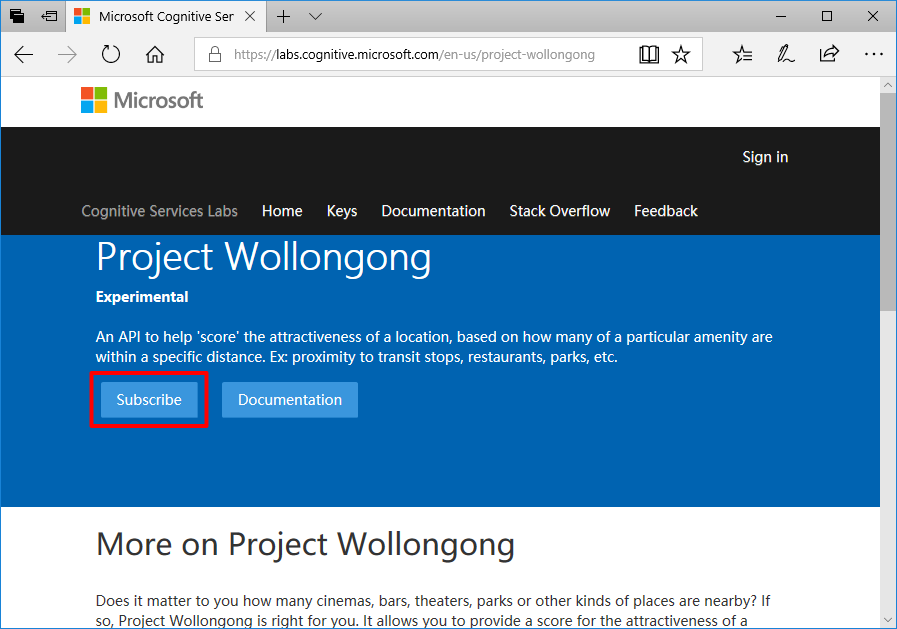
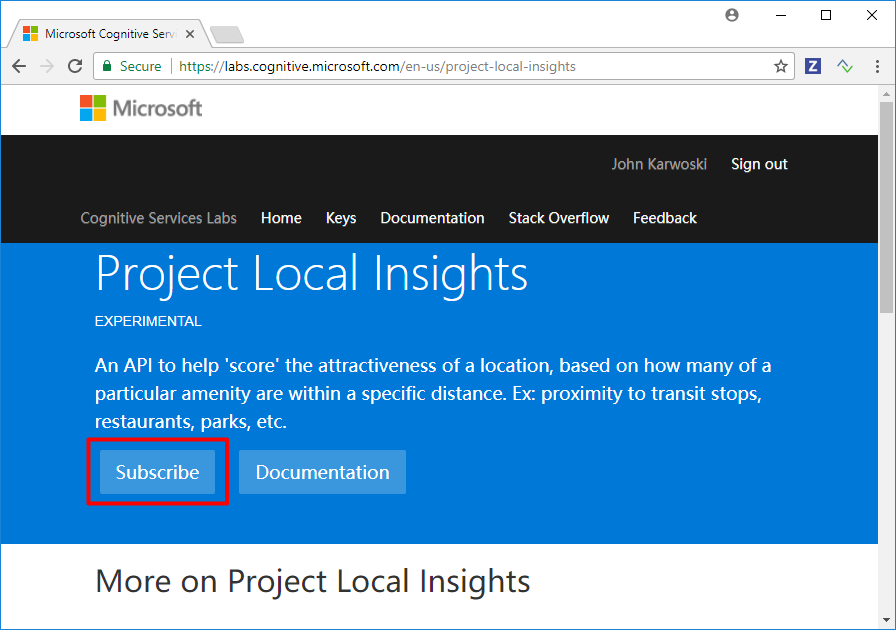
Updated WebApp HOL

diff --git a/Azure University Tour/WebAppHOL/index.html b/Azure University Tour/WebAppHOL/index.html
@@ -131,13 +131,11 @@
 
     <script type="text/javascript" src="./js/jquery-3.1.1.min.js"></script>
     <script type="text/javascript" src="./js/bootstrap.min.js"></script>
-    <!-- These are in place of pulling actual data from a server -->
     <script type="text/javascript" src="./data/data_au.js"></script>
     <script type="text/javascript" src="./data/data_dc.js"></script>
     <script type="text/javascript" src="./data/data_la.js"></script>
     <script type="text/javascript" src="./data/data_se.js"></script>
     <script type="text/javascript" src="./data/data_sf.js"></script>
-
     <script type="text/javascript" src="./js/settings.js"></script>
     <script type="text/javascript" src="./js/index.js"></script>
     <script type="text/javascript" src="https://www.bing.com/api/maps/mapcontrol?branch=experimental&callback=CreateMap" async defer></script>

diff --git a/Azure University Tour/WebAppHOL/README.md b/Azure University Tour/WebAppHOL/README.md
@@ -7,7 +7,7 @@
 
 We find ourselves now at a fascinating moment in the history of software development. For the first time ever, not only is data about our world abundant, readily available, and easy to share, but nearly unlimited processing power is just as available to anyone who needs it. Add to that mix the public availability of new, powerful artificial-intelligence (AI) algorithms that Microsoft had previously used only in-house, and suddenly developers have a mind-boggling degree of programming power, right at their fingertips. With AI, we can tap into huge amounts of data and make it work for us by giving us insights about whatever we care about. Microsoft Cognitive Services provides a rich source for AI algorithms, enabling your apps to see, hear, speak, understand, and interpret your users' needs.
 
-In this lab, you will experience the benefits of using AI first-hand. You will begin the lab by downloading a short-term vacation-rental web application called ContosoBNB. Then you will incorporate into that web application the Project Wollongong API from Cognitive Services. Project Wollongong provides a custom score for the attractiveness of a location according to a user's select preferences. After incorporating the API, the ContosoBNB application is able to render a Bing Maps image of several cities within the United States, where the project is supported. Circles appear on the rendered map to represent neighborhoods, and each circle displays a number that corresponds to the number of available properties within that neighborhood. Neighborhoods are also rated according to preference settings that the user can adjust. Finally, using the API, you will alter the neighborhood criteria (categories) displayed in the user interface (UI). This step will enable you to customize the attractiveness score of a neighborhood so that the score is determined by its proximity to amenities you prioritize (such as restaurants or parks) within the defined area.
+In this lab, you will experience the benefits of using AI first-hand. You will begin the lab by downloading a short-term vacation-rental web application called ContosoBNB. Then you will incorporate into that web application the Project Local Insights API from Cognitive Services. Project Local Insights provides a custom score for the attractiveness of a location according to a user's select preferences. After incorporating the API, the ContosoBNB application is able to render a Bing Maps image of several cities within the United States, where the project is supported. Circles appear on the rendered map to represent neighborhoods, and each circle displays a number that corresponds to the number of available properties within that neighborhood. Neighborhoods are also rated according to preference settings that the user can adjust. Finally, using the API, you will alter the neighborhood criteria (categories) displayed in the user interface (UI). This step will enable you to customize the attractiveness score of a neighborhood so that the score is determined by its proximity to amenities you prioritize (such as restaurants or parks) within the defined area.
 
 <a name="Objectives"></a>
 ### Objectives ###
@@ -16,7 +16,7 @@ In this hands-on lab, you will learn:
 
 - How to install and use Visual Studio Code
 - How to obtain an API key for Azure Cognitive Services
-- How to make calls to the Project Wollongong API
+- How to make calls to the Project Local Insights API
 - How data is returned from the API (and how to use that data)
 - How to tailor your requests to customize the data returned from the API
 
@@ -25,7 +25,7 @@ In this hands-on lab, you will learn:
 
 The following are required to complete this hands-on lab:
 
-- A key for the Project Wollongong API. If you haven't already, [subscribe to Project Wollongong](https://labs.cognitive.microsoft.com/en-us/project-wollongong).
+- A key for the Project Local Insights API. If you haven't already, [subscribe to Project Local Insights](https://labs.cognitive.microsoft.com/en-us/project-local-insights).
 - Your favorite development environment for web applications. If you don't have one, try Microsoft Visual Studio Code, with [downloads for Windows, Linux, and Mac available here](https://code.visualstudio.com/download).
 
 <a name="Resources"></a>
@@ -33,7 +33,7 @@ The following are required to complete this hands-on lab:
 
 This lab makes use of an existing dataset (released under public domain) to model real-world property listings with their associated details. The complete dataset can be found at http://insideairbnb.com/get-the-data.html. For the purposes of this lab, the data has been separated by city location and provided in JavaScript Object Notation (JSON) format to emulate how it might be provided if requested directly from a database.
 
-You will find a .ZIP file containing the resources used in this lab [here](https://github.com/ProwessInfo/AzureUniversityRedShirt/archive/master.zip). (These are the same resources that are downloaded at the beginning of Exercise 1.)
+You will find a .ZIP file containing the resources used in this lab [here](https://redshirttour.blob.core.windows.net/challenges/WebAppHOL.zip). (These are the same resources that are downloaded at the beginning of Exercise 1.)
 
 <a name="Exercises"></a>
 ## Exercises ##
@@ -44,7 +44,7 @@ This hands-on lab includes the following exercises:
 - [Exercise 2: Getting familiar with the core application](#Exercise2)
 - [Exercise 3: Add neighborhoods to the core application](#Exercise3)
 - [Exercise 4: Add slider controls to the core application](#Exercise4)
-- [Exercise 5: Connect the Wollongong API](#Exercise5)
+- [Exercise 5: Connect the Project Local Insights API](#Exercise5)
 - [Exercise 6: Update pins with API ratings data](#Exercise6)
 - [Exercise 7: Customizing the API for personalized results](#Exercise7)
 
@@ -53,7 +53,7 @@ Estimated time to complete this lab: **60** minutes
 <a name="Exercise1"></a>
 ## Exercise 1: Configure your Cognitive Services API key ##
 
-In this exercise, you will install (if necessary) and open a local development environment, download the lab's source files, and finally configure the application to use the API key provided after subscribing to Project Wollongong.
+In this exercise, you will install (if necessary) and open a local development environment, download the lab's source files, and finally configure the application to use the API key provided after subscribing to Project Local Insights.
 
 1. You will need an editor to view and make changes to the application as part of this lab. If you would like to use Visual Studio Code and your computer is running Windows, proceed to step 2. Otherwise skip to step 4.
 2. Download and install Microsoft Visual Studio Code [here](https://code.visualstudio.com/download). Accept the License Agreement and make note of the installation location.
@@ -65,23 +65,22 @@ In this exercise, you will install (if necessary) and open a local development e
 
   ![Visual Studio Code Settings](img/VSCodeOptions.png)
 
-4. Use the **AzureUniversityRedShirt** link at the top of this page to open the root of this GitHub repository (AzureUniversityRedShirt) in a new tab or page. On that page, click **Clone or download**.
-5. Click **Download ZIP** to download the repository to your computer,
-6. Extract the downloaded .zip file.
-7. If you haven't done so already, go to https://labs.cognitive.microsoft.com/en-us/project-wollongong and subscribe to Project Wollongong to get your key.
+4. Download the .ZIP file containing the resources used in this lab [here](https://redshirttour.blob.core.windows.net/challenges/WebAppHOL.zip)
+5. Extract the downloaded .zip file.
+6. If you haven't done so already, go to https://labs.cognitive.microsoft.com/en-us/project-local-insights and subscribe to Project Local Insights to get your key.
 
-  ![Subscribe to Wollongong Project](img/Subscribe.png)
+  ![Subscribe to Project Local Insights](img/Subscribe.png)
 
-8. Once you have your key, navigate on your device to the `AzureUniversityRedShirt-master\Challenges\WebAppHOL\js` folder, and then Right Click the **settings.js** file and select "Open with Code". Replace **\<YOUR KEY\>** with your Project Wollongong key (deleting the brackets "\<" and "\>" along with the letters "YOUR KEY"), and then save and close the file.
+7. Once you have your key, navigate on your device to the `WebAppHOL\WebAppHOL\js` folder, and then Right Click the **settings.js** file and select "Open with Code". (On a Mac, you can select the file in Finder, open the File menu, point to Open With, and then select Visual Studio Code.) Replace **\<YOUR KEY\>** with your Project Local Insights key (deleting the brackets "\<" and "\>" along with the letters "YOUR KEY"), and then save and close the file.
 
   ![Set the Cog Services Key](img/SetCogServicesKey.png)
 
 <a name="Exercise2"></a>
 ## Exercise 2: Getting familiar with the core application ##
 
-In this exercise, you will run the core web application locally to get familiar with its functionality as a baseline for the upcomming exercises.
+In this exercise, you will run the core web application locally to get familiar with its functionality as a baseline for the upcoming exercises.
 
-1. From the **AzureUniversityRedShirt-master\Challenges\WebAppHOL** directory on your computer, open the **index.html** file in your browser to run the application.
+1. From the **WebAppHOL\WebAppHOL** directory on your computer, open the **index.html** file in your browser to run the application.
   
   ![Web Application Landing Page](img/WebApp_Choose.png)
 
@@ -95,7 +94,7 @@ In this exercise, you will run the core web application locally to get familiar 
 
 4. Note your ability to zoom in and out using the scroll control, and the **Neighborhood Match** legend in the lower right of the window.
 
-In the upcomming exercises you will render circles (pins) indicating Seattle neighborhoods containing the number of rentals available in each neighborhood (shown as numbers within the circles). These neighborhoods will be ranked based on how well they meet a user-defined set of criteria, known as `categories` within the Project Wollongong API. The default scoring displayed is based on average-level interest in access to local amenities, such as medical care, grocery and shopping stores, parks and recreation, and nightlife. How well a neighborhood scores is represented by the color of the pins defined in the legend.
+In the upcoming exercises you will render circles (pins) indicating Seattle neighborhoods containing the number of rentals available in each neighborhood (shown as numbers within the circles). These neighborhoods will be ranked based on how well they meet a user-defined set of criteria, known as `categories` within the Project Wollongong API. The default scoring displayed is based on average-level interest in access to local amenities, such as medical care, grocery and shopping stores, parks and recreation, and nightlife. How well a neighborhood scores is represented by the color of the pins defined in the legend.
 
 5. Note how clicking the hamburger control in the upper-right of the window allows you to change your location to a number of pre-defined cities.
 
@@ -106,21 +105,21 @@ In the upcomming exercises you will render circles (pins) indicating Seattle nei
 
 In this exercise, we'll get neighborhood data from a json file and render the neighborhoods on the map.
 
-1. For reference find and open one of the neighborhood datasets, the datasets are found in the **AzureUniversityRedShirt-master\Challenges\WebAppHOL\data** directory on your computer. Open the **data_se.js** in your editor as an example.
+1. For reference find and open one of the neighborhood datasets, the datasets are found in the **WebAppHOL\WebAppHOL\data** directory on your computer. Open the **data_se.js** in your editor as an example.
 
 2. Note that the data includes names of the neighborhood and the number of avaialble rentals within that neighborhood. This data is representative for how it might be provided after making a request to a database.
 
   ![Seattle Neighborhood Data](img/NeighborhoodData.png)
   
-3. Close the neighborhood data file and open the **index.js** file found in the **AzureUniversityRedShirt-master\Challenges\WebAppHOL\js** directory on your computer using Visual Studio Code or another editor. You will be making changes to this file to render the neighborhoods on the map.
+3. Close the neighborhood data file and open the **index.js** file found in the **WebAppHOL\WebAppHOL\js** directory on your computer using Visual Studio Code or another editor. You will be making changes to this file to render the neighborhoods on the map.
 
-4. Find and comment out "CenterMap(settings.city);" on line 232 of **index.js** and un-comment the following line on 233 "// GetCityData(city_code);"
+4. Now you will search and find "// GetCityData(city_code);" in **index.js** and un-comment the line. (Note that if you are using Visual Studio Code, you can perform a search by pressing '\<CTRL\>\<F\>'.)
 
   ![Code Change](img/WebApp_CodeChange1.png)
 
-5. Find "// GetNeighborhoods();" on line 311 and un-comment.
+5. Find "// GetNeighborhoods();" within the **index.js** file and un-comment.
 
-6. Find "///// Get Neighborhood Data Here" on line 62 within the index.js file and add the following functions below that line.
+6. The 'GetCityData' and 'GetNeighborhoods' functions gather neighborhood data for the selected city and set pins on each neighborhood. Find "///// Get Neighborhood Data Here" within the **index.js** file and add these functions below that line.
 
 Add the 'GetCityData' function using the code snippet below:
 
@@ -171,7 +170,7 @@ function GetNeighborhoods() {
     }
 }
 ```
-7. Save the index.js file with your changes, then open the **index.html** file in your browser to run the application (or refresh if it's already open). As a reminder, you'll find the index.html file in the **AzureUniversityRedShirt-master\Challenges\WebAppHOL** directory on your computer.
+7. Save the index.js file with your changes, then open the **index.html** file in your browser to run the application (or refresh if it's already open). As a reminder, you'll find the index.html file in the **WebAppHOL\WebAppHOL** directory on your computer.
 
 8. Note how circles or pins have been added to your map representing all the neighborhoods in your neighghborhood dataset. The numbers within the pins represent the number of rental propreties within that neighborhood. Every circle is gray because we are not yet comparing any personal preferences to neighborhood features.
 
@@ -182,13 +181,13 @@ function GetNeighborhoods() {
 <a name="Exercise4"></a>
 ## Exercise 4: Adding sliders to the core application ##
 
-In this exercise, we'll add slider controls for categories used by the Project Wollongong API. The application populates a pop-up window with a list of sliders which are found within the **settings.js** file, found within the **AzureUniversityRedShirt-master\Challenges\WebAppHOL\js** directory on your computer.
+In this exercise, we'll add slider controls for categories used by the Project Local Insights API. The application populates a pop-up window with a list of sliders which are found within the **settings.js** file, found within the **WebAppHOL\WebAppHOL\js** directory on your computer.
 
-1. Open the **setting.js** file with Visual Studio Code (or another editor) and take note of how the categories are defined and which categories are currently active vs. commented out.
+1. Open the **settings.js** file with Visual Studio Code (or another editor) and take note of how the categories are defined and which categories are currently active vs. commented out.
 
   ![Categories in the Settings.js File](img/WebApp_CategoriesFile.png)
   
-2. Find "// CreateCategorySlidersList();" on line 391 in the **index.js** file at the end of the jQuery document ready function and un-comment it. 
+2. Search for "// CreateCategorySlidersList();" in the **index.js** file found at the end of the jQuery document ready function and un-comment it. 
 
 3.  Below the line `/////// Create Slider Functions Here`, add the 'CreateCategorySlidersList' function using the code snippet below:
 
@@ -212,7 +211,7 @@ function CreateCategorySlidersList() {
 }
 ```
 
-4. Add the 'CreateCategorySlider' function using the code snippet below:
+4. And immediately following the last function, add the 'CreateCategorySlider' function using the code snippet below:
 
 ```javascript
 /**
@@ -235,31 +234,33 @@ function CreateCategorySlider(id, name, value) {
 }
 ```
 
-5. Save the index.js file with your changes, then open the **index.html** file in your browser to run the application (or refresh if it's already open). As a reminder, you'll find the index.html file in the **AzureUniversityRedShirt-master\Challenges\WebAppHOL** directory on your computer.
+5. Save the index.js file with your changes, then open the **index.html** file in your browser to run the application (or refresh if it's already open). As a reminder, you'll find the index.html file in the **WebAppHOL\WebAppHOL** directory on your computer.
 
 6. Note how sliders are now displayed after clicking the **Make it Yours** control. The displayed sliders are categories identified in the settings.js file.
 
   ![Display Categories Slider Control](img/WebApp_Filters.png)
 
 <a name="Exercise5"></a>
-## Exercise 5: Connect the Wollongong API ##
+## Exercise 5: Connect the Project Local Insights API ##
 
-In this exercise, we'll continue to build our application so that we can make requests to the Project Wollongong API.
+In this exercise, we'll continue to build our application so that we can make requests to the Project Local Insights API.
 
 1. In the **index.js** file, search for the PlacePin function. In the PlacePin function, add: 
  `GetNeighborhoodScore(location, category_string, pins[neighborhood + settings.city]);`
  on the line before: `map.entities.push(pins[neighborhood + settings.city]);`
 
-2. Add the following additional functions to the **index.js** file:
+This line calls the function we'll add in the next step.
+
+2. Now you are going to add the 'GetNeighborhoodScore' function that creates a sum of the weighted categories. Navigate to the end of the the **index.js** file, adding the function before the line containing `window.onresize = Resize;`
 
 ```javascript
 /**
- * Calls the Project Wollongong api for the requested location.
+ * Calls the Project Local Insights api for the requested location.
  * The sum of nearby locations for each category is used for the score of that category.
  * (see the PlacePin function)
  *
  * @param  {obj} location - location object returned from the Maps Search module
- * @param  {string} category - category string used in the Project Wollongong api call
+ * @param  {string} category - category string used in the Project Local Insights api call
  * @param  {obj} pin - the map pin connected to this location
  * @private
  */
@@ -314,18 +315,17 @@ function GetNeighborhoodScore(location, category, pin) {
 }
 ```
 
-2. Save the index.js file with your changes, then open the **index.html** file in your browser to run the application (or refresh if it's already open). As a reminder, you'll find the index.html file in the **AzureUniversityRedShirt-master\Challenges\WebAppHOL** directory on your computer.
+3. Save the index.js file with your changes, then open the **index.html** file in your browser to run the application (or refresh if it's already open). As a reminder, you'll find the index.html file in the **WebAppHOL\WebAppHOL** directory on your computer.
+Note: Running the application, you will notice that nothing seems to have changed. Even though we are now gathering data from the Cognitive service API, we are not yet rendering that on the pins. You will do that in Exercise 6.
 
 <a name="Exercise6"></a>
 ## Exercise 6: Update pins with API ratings data ##
 
-In this exercise, we'll use the responses provided by the Cognitive service API, create a score for each neighborhood by adding up all the neighborhood weighted category scores and apply a color to the pin based on their relative scores.
+In this exercise, we'll use the responses provided by Microsoft Cognitive Services to create a score for each neighborhood. We'll calculate this score by adding up all the neighborhood weighted category scores. Then we'll apply a color to the pin based on their relative scores.
 
-1.  In the **index.js** file, search for the `GetNeighborhoodScore` function. At the end of the Done function in the GetNeighborhoodScore function, look for the comment `// CalculatePinScore(pin);`. 
+1.  Search for "// CalculatePinScore(pin);" in the **index.js** file and un-comment it. This line now calls the function added in the next step.
 
-2. After `// CalculatePinScore(pin);`, add: `CalculatePinScore(pin);`
-
-3. Add the following functions to **index.js**:
+2. Now you will add the 'CalculatePinScore' and 'UpdatePinColors' functions. The 'CalculatePinScore' function creates an overall score for each pin (neighborhood), and the 'UpdatePinColors' function sets the color of the pins based on its score. Navigate to the end of the the **index.js** file and then add these functions before the line containing `window.onresize = Resize;`:
 
 ```javascript
 /**
@@ -388,16 +388,16 @@ function UpdatePinColors() {
     }
 }
 ```
-2. Save the index.js file with your changes, then open the **index.html** file in your browser to run the application (or refresh if it's already open). Reminder, you'll find the index.html file in the **AzureUniversityRedShirt-master\Challenges\WebAppHOL** directory on your computer.
+3. Save the index.js file with your changes, then open the **index.html** file in your browser to run the application (or refresh if it's already open). Reminder, you'll find the index.html file in the **WebAppHOL\WebAppHOL** directory on your computer.
 
-3. Note how the neighborhood pins are now colored to indicate which best the weighting category setting defined by the slider control. The displayed sliders are categories identified in the settings.js file.
+4. Note how the neighborhood pins are now colored to indicate which best the weighting category setting defined by the slider control. The displayed sliders are categories identified in the settings.js file. (Note: To toggle between the map view and the slider control, click the double arrows at the top of the window.) 
 
   ![Display Categories Slider Control](img/WebApp_Default.png)
 
 <a name="Exercise7"></a>
 ## Exercise 7: Customizing the API for personalized results ##
 
-In this exercise, you will customize the implementation of the Project Wollongong API. The `categories` object, found in the **settings.js** file (located in the **AzureUniversityRedShirt-master\Challenges\WebAppHOL\js** directory), provides the full list of categories that are available for use with the Project Wollongong API. By modifying this `categories` object, you can change which sliders appear in the "Make It Yours" menu.
+In this exercise, you will customize the implementation of the Project Local Insights API. The `categories` object, found in the **settings.js** file (located in the **WebAppHOL\WebAppHOL\js** directory), provides the full list of categories that are available for use with the Project Local Insights API. By modifying this `categories` object, you can change which sliders appear in the "Make It Yours" menu.
 
 1. Open the **settings.js** file in a text editor, and then browse to the **categories** object. Note that in the list of categories, all but five are currently commented out; these are the five criteria that are currently displayed in the ContosoBNB UI. Add and remove the commenting to match the following five categories: **Arts & Entertainment**, **Food & Drink Stores**, **Restaurants**, **Bars**, and **Bars/Nightlife**. These changes give preference to a rental property that is within walking distance to the best Seattle neighborhood for nightlife.
 
@@ -450,12 +450,12 @@ route_mode: "walking",
 ```  
 <a name="Summary"></a>
 ## Summary ##
-Project Wollongong is a project within Cognitive Services that provides an attractiveness score for a location based on the number of nearby amenities.
+Project Local Insights is a project within Cognitive Services that provides an attractiveness score for a location based on the number of nearby amenities.
 
-In this lab, you learned the following about Project Wollongong:
+In this lab, you learned the following about Project Local Insights:
 
 - How to subscribe to a service and receive an API key
-- How to make calls to the Project Wollongong API
+- How to make calls to the Project Local Insights API
 - How data is returned from the API and how to use that data
 - How to customize requests to make data returned by the API suit your needs 
 
